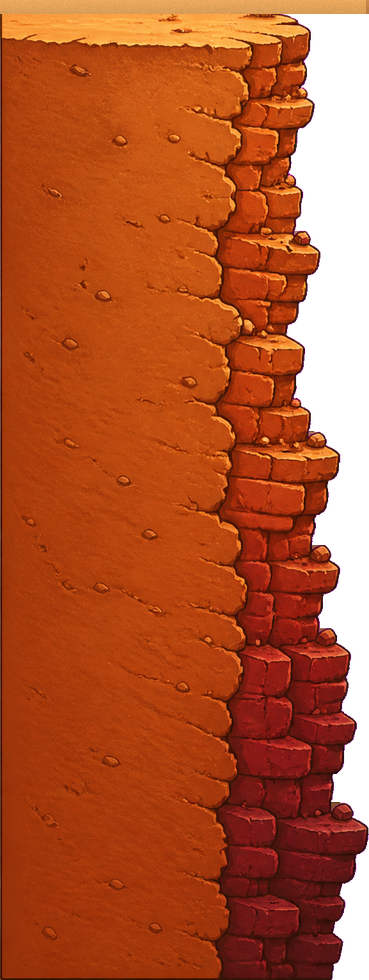
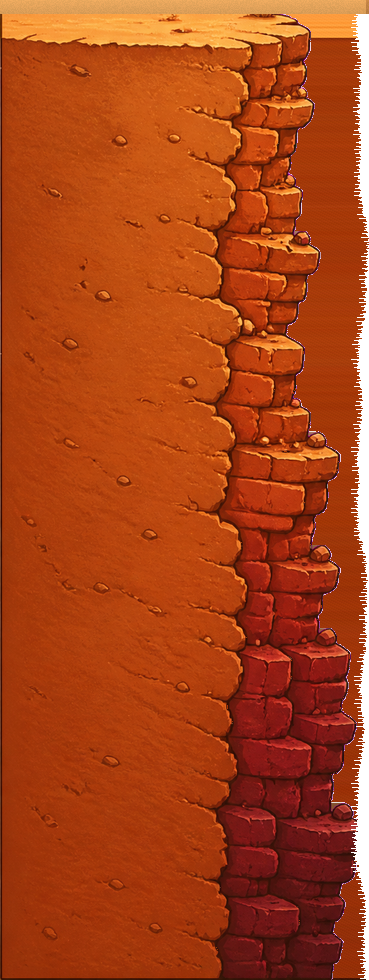
Seal canyon ridge lips flush to the sky gap with no black fringe.

Changed region(s): [[0.7751, 0.0, 1.0, 1.0]]

diff --git a/tools/build_canyon_rim.py b/tools/build_canyon_rim.py
@@ -4,13 +4,14 @@
 Produces a tall left rim with:
 - sealed sand crust at y=0 (flush with the desert floor)
 - opaque packed-dirt bank (no sky/abyss peek-through)
-- jagged canyon-facing lip on the right
+- jagged canyon-facing lip on the right, flush to the outer envelope
 """
 
 from __future__ import annotations
 
 from collections import deque
 from pathlib import Path
+import math
 import random
 import sys
 
@@ -23,6 +24,10 @@ SRC = ROOT / "assets/source/canyon/ridge_left_concept.png"
 OUT = ROOT / "assets/world/canyon_rim_left.png"
 TARGET_H = 980
 CRUST_ROWS = 14
+DEFAULT_EARTH = (140, 62, 28, 255)
+NEAR_BLACK = 50
+OPAQUE_A = 40
+JAGGED_MAX = 18
 
 
 def _is_key(r: int, g: int, b: int) -> bool:
@@ -86,21 +91,154 @@ def _key_out(im: Image.Image) -> Image.Image:
 	return out
 
 
-def _lips(im: Image.Image) -> list[int]:
+def _lips(im: Image.Image, alpha: int = OPAQUE_A) -> list[int]:
 	w, h = im.size
 	px = im.load()
 	out: list[int] = []
 	for y in range(h):
 		right = -1
 		for x in range(w - 1, -1, -1):
-			if px[x, y][3] > 40:
+			if px[x, y][3] > alpha:
 				right = x
 				break
 		out.append(right)
 	return out
 
 
-def _fill_bank(im: Image.Image) -> None:
+def _is_near_black(r: int, g: int, b: int, a: int) -> bool:
+	return a > 0 and (r + g + b) < NEAR_BLACK
+
+
+def _needs_fill(r: int, g: int, b: int, a: int) -> bool:
+	return a < OPAQUE_A or _is_near_black(r, g, b, a)
+
+
+def _sample_row_earth(px, y: int, w: int, envelope: int) -> tuple[int, int, int, int]:
+	"""Warm rock/dirt from opaque bank pixels on this row."""
+	samples: list[tuple[int, int, int, int]] = []
+	limit = max(0, min(w - 1, envelope))
+	for x in range(0, limit + 1):
+		r, g, b, a = px[x, y]
+		if a > 200 and (r + g + b) >= NEAR_BLACK and r > 40:
+			samples.append((r, g, b, 255))
+			if len(samples) >= 8:
+				break
+	if samples:
+		# Prefer mid-bank sample (skip possible edge noise).
+		return samples[min(3, len(samples) - 1)]
+	return DEFAULT_EARTH
+
+
+def _seal_to_envelope(im: Image.Image) -> int:
+	"""Fill transparent/near-black notches out to the outer face envelope.
+
+	Returns rim_lip_tex_x (= envelope).
+	"""
+	w, h = im.size
+	px = im.load()
+	lips = _lips(im)
+	face_lips = [lip for lip in lips[CRUST_ROWS:] if lip >= 0]
+	if not face_lips:
+		face_lips = [lip for lip in lips if lip >= 0]
+	envelope = max(face_lips) if face_lips else w - 1
+	# Ensure crust reaches the same outer lip as the face envelope.
+	envelope = max(envelope, max((lip for lip in lips[:CRUST_ROWS] if lip >= 0), default=0))
+
+	# Widen canvas if envelope sits on the last column (need room only if carving
+	# would need more — envelope is the sealed outer lip).
+	if envelope >= w:
+		envelope = w - 1
+
+	for y in range(h):
+		sample = _sample_row_earth(px, y, w, envelope)
+		# Paint sealed sand crust on top rows for a flush desert cap.
+		if y < CRUST_ROWS:
+			rng = random.Random(3 + y * 17)
+			shade = 1.0 - 0.08 * y / max(1, CRUST_ROWS - 1)
+			for x in range(0, envelope + 1):
+				n = rng.randint(-8, 8)
+				r = max(0, min(255, int(236 * shade) + n))
+				g = max(0, min(255, int(170 * shade) + n // 2))
+				b = max(0, min(255, int(95 * shade) + n // 3))
+				if envelope - x <= 2:
+					r = int(r * 0.85)
+					g = int(g * 0.8)
+					b = int(b * 0.75)
+				px[x, y] = (r, g, b, 255)
+			continue
+		for x in range(0, envelope + 1):
+			r, g, b, a = px[x, y]
+			if _needs_fill(r, g, b, a):
+				# Slight vertical tint variation from the row sample.
+				jitter = ((x * 13 + y * 7) % 11) - 5
+				nr = max(0, min(255, sample[0] + jitter))
+				ng = max(0, min(255, sample[1] + jitter // 2))
+				nb = max(0, min(255, sample[2] + jitter // 3))
+				px[x, y] = (nr, ng, nb, 255)
+	return envelope
+
+
+def _jagged_inset(y: int, h: int, rng: random.Random) -> int:
+	"""Seeded irregular inset ~0..JAGGED_MAX so rim_sky_edge_is_irregular passes."""
+	t = (y - CRUST_ROWS) / max(1.0, float(h - CRUST_ROWS - 1))
+	# Layered sines + sparse noise for cliff-like notches (not a straight cut).
+	wave = (
+		9.0 * (0.5 + 0.5 * math.sin(t * math.pi * 5.3 + 0.4))
+		+ 5.5 * (0.5 + 0.5 * math.sin(t * math.pi * 11.7 + 1.7))
+		+ 3.0 * (0.5 + 0.5 * math.sin(t * math.pi * 23.1 + 0.9))
+	)
+	# Occasional deeper bites every ~40–70 rows.
+	chunk = abs(((y * 1103515245 + 12345) >> 16) % 47)
+	bite = 6.0 if chunk < 5 else (3.0 if chunk < 12 else 0.0)
+	noise = rng.uniform(-1.5, 1.5)
+	inset = int(round(max(0.0, min(float(JAGGED_MAX), wave * 0.85 + bite + noise))))
+	return inset
+
+
+def _carve_jagged_silhouette(im: Image.Image, envelope: int) -> None:
+	"""Carve canyon-facing jagged lip on the RIGHT; crust stays solid to envelope."""
+	w, h = im.size
+	px = im.load()
+	rng = random.Random(42)
+	for y in range(h):
+		if y < CRUST_ROWS:
+			lip_x = envelope
+		else:
+			lip_x = envelope - _jagged_inset(y, h, rng)
+			lip_x = max(0, min(envelope, lip_x))
+		for x in range(lip_x + 1, w):
+			px[x, y] = (0, 0, 0, 0)
+
+
+def _strip_near_black_fringe(im: Image.Image, envelope: int) -> None:
+	"""Make near-black fringe outside the silhouette transparent."""
+	w, h = im.size
+	px = im.load()
+	lips = _lips(im)
+	for y in range(h):
+		lip = lips[y]
+		if lip < 0:
+			continue
+		# Outside silhouette (past this row's lip) — clear near-black leftovers.
+		for x in range(lip + 1, w):
+			r, g, b, a = px[x, y]
+			if a > 0 and (r + g + b) < NEAR_BLACK + 30:
+				px[x, y] = (0, 0, 0, 0)
+		# Also clear near-black sitting on the outer 2px of the lip edge.
+		for x in range(max(0, lip - 1), min(w, lip + 1)):
+			r, g, b, a = px[x, y]
+			if _is_near_black(r, g, b, a):
+				px[x, y] = (0, 0, 0, 0)
+	# Any remaining near-black anywhere past the sealed bank mid — kill fringe.
+	for y in range(h):
+		for x in range(max(0, envelope - JAGGED_MAX - 2), w):
+			r, g, b, a = px[x, y]
+			if _is_near_black(r, g, b, a):
+				px[x, y] = (0, 0, 0, 0)
+
+
+def _fill_bank_pre(im: Image.Image) -> None:
+	"""Coarse bank fill before resize so LANCZOS has solid dirt to sample."""
 	w, h = im.size
 	px = im.load()
 	lips = _lips(im)
@@ -108,35 +246,15 @@ def _fill_bank(im: Image.Image) -> None:
 		lip = lips[y]
 		if lip < 10:
 			continue
-		sample = (140, 62, 28, 255)
+		sample = DEFAULT_EARTH
 		for x in range(0, max(1, lip // 2)):
-			if px[x, y][3] > 200:
-				sample = px[x, y]
+			if px[x, y][3] > 200 and px[x, y][0] + px[x, y][1] + px[x, y][2] >= NEAR_BLACK:
+				sample = (px[x, y][0], px[x, y][1], px[x, y][2], 255)
 				break
 		for x in range(0, max(0, lip - 4)):
-			if px[x, y][3] < 160:
+			r, g, b, a = px[x, y]
+			if a < 160 or (r + g + b) < NEAR_BLACK:
 				px[x, y] = sample
-
-
-def _seal_crust(im: Image.Image, rows: int) -> int:
-	w, h = im.size
-	px = im.load()
-	lips = _lips(im)
-	env = max((lip for lip in lips if lip >= 0), default=w - 1)
-	rng = random.Random(3)
-	for y in range(rows):
-		shade = 1.0 - 0.08 * y / max(1, rows - 1)
-		for x in range(0, env + 1):
-			n = rng.randint(-8, 8)
-			r = max(0, min(255, int(236 * shade) + n))
-			g = max(0, min(255, int(170 * shade) + n // 2))
-			b = max(0, min(255, int(95 * shade) + n // 3))
-			if env - x <= 2:
-				r = int(r * 0.85)
-				g = int(g * 0.8)
-				b = int(b * 0.75)
-			px[x, y] = (r, g, b, 255)
-	return env
 
 
 def build() -> dict:
@@ -147,22 +265,26 @@ def build() -> dict:
 	if bbox is None:
 		raise SystemExit("keyed image empty")
 	im = im.crop(bbox)
-	_fill_bank(im)
+	_fill_bank_pre(im)
 	ow, oh = im.size
 	nw = max(40, int(round(ow * (TARGET_H / float(oh)))))
 	final = im.resize((nw, TARGET_H), Image.Resampling.LANCZOS)
-	_fill_bank(final)
-	lip_x = _seal_crust(final, CRUST_ROWS)
+	# After key-out + crop + resize: seal notches, carve jagged lip, strip fringe.
+	envelope = _seal_to_envelope(final)
+	_carve_jagged_silhouette(final, envelope)
+	_strip_near_black_fringe(final, envelope)
 	OUT.parent.mkdir(parents=True, exist_ok=True)
 	final.save(OUT)
 	return {
 		"path": str(OUT),
 		"size": final.size,
 		"rim_surface_tex_y": 0.0,
-		"rim_lip_tex_x": float(lip_x),
+		"rim_lip_tex_x": float(envelope),
 		"rim_crust_rows": CRUST_ROWS,
 	}
 
 
 if __name__ == "__main__":
-	print(build())
+	info = build()
+	print(info)
+	print(f"size={info['size']} rim_lip_tex_x={info['rim_lip_tex_x']}")

diff --git a/README.md b/README.md
@@ -2,7 +2,7 @@
 
 Child-friendly 2D western cowboy platformer (Godot **4.4**). Aimed at kids ~6: forgiving jumps, nonviolent lasso. **Classic mode** has no lives or game over; **Advanced Mode** (chosen in **Settings** before starting or continuing a slot) adds a three-life limit, badge milestones, and a game-over return to the start screen. Pick **Cowboy** or **Cowgirl** in Settings — the choice applies across all save slots. **German is the default language**; English is fully supported.
 
-**Content version:** `1.8.11` (see `content_version.txt`). Launchers reimport when this stamp changes.
+**Content version:** `1.8.12` (see `content_version.txt`). Launchers reimport when this stamp changes.
 
 This README is the **binding source of truth** for gameplay, level design, art, i18n, and audio. Agents and contributors must follow it (see [Agent / contributor rules](#agent--contributor-rules)).
 
